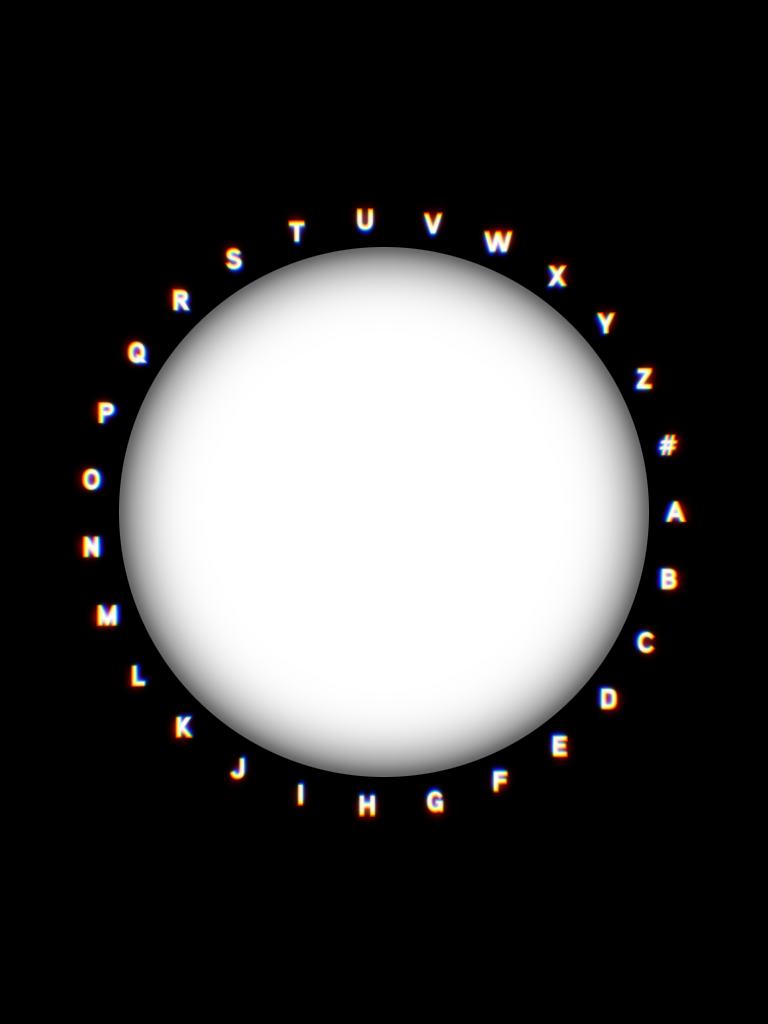
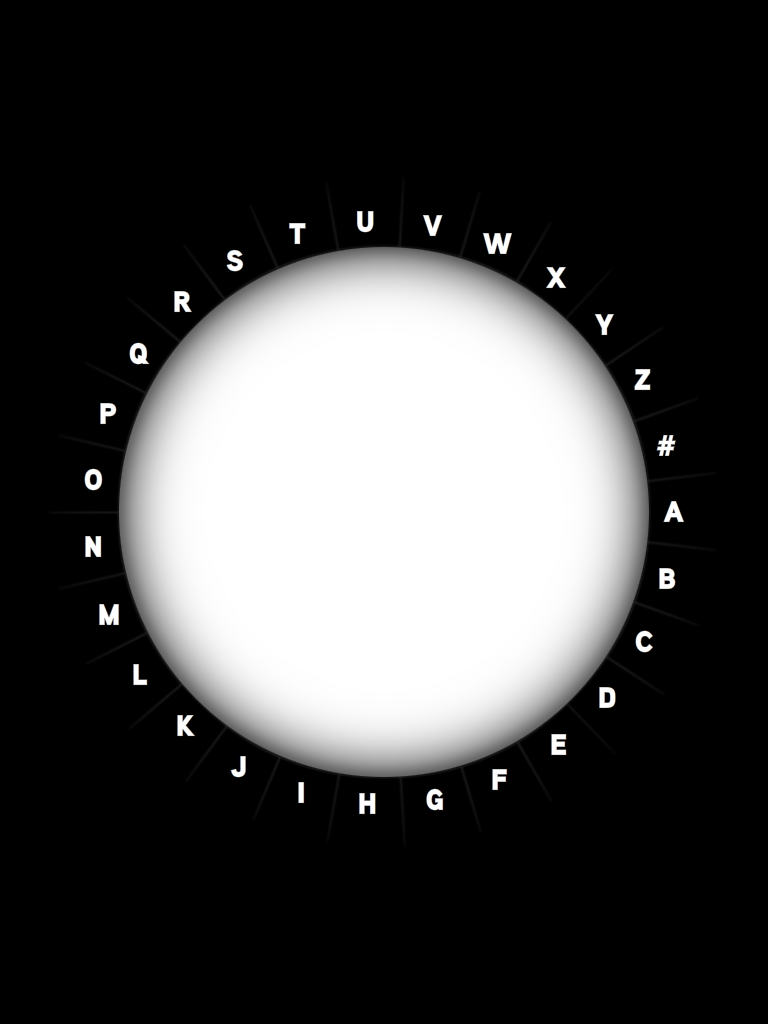
1st go at texture names on planets

diff --git a/src/KeplerApp.cpp b/src/KeplerApp.cpp
@@ -65,7 +65,7 @@ class KeplerApp : public AppCocoaTouch {
 	Vec3f			mEye, mCenter, mUp;
 	Vec3f			mCamVel;
 	Vec3f			mCenterDest, mCenterFrom;
-	float			mCamDist, mCamDistDest, mCamDistFrom, mCamDistDestMulti;
+	float			mCamDist, mCamDistDest, mCamDistFrom;
 	float			mZoomFrom, mZoomDest;
 	Arcball			mArcball;
 	Matrix44f		mMatrix;
@@ -107,7 +107,6 @@ void KeplerApp::setup()
 	mCamDist			= G_INIT_CAM_DIST;
 	mCamDistDest		= mCamDist;
 	mCamDistFrom		= mCamDist;
-	mCamDistDestMulti	= 1.0f;
 	mEye				= Vec3f( 0.0f, 0.0f, mCamDist );
 	mCenter				= Vec3f::zero();
 	mCenterDest			= mCenter;
@@ -316,9 +315,7 @@ void KeplerApp::updateCamera()
 {
 	Node* selectedNode = mState.getSelectedNode();
 	if( selectedNode ){
-		float radiusMulti = 6.0f - ( selectedNode->mGen );
-		
-		mCamDistDest	= ( selectedNode->mRadius * radiusMulti  );
+		mCamDistDest	= selectedNode->mIdealCameraDist;
 		mCenterDest		= mMatrix.transformPointAffine( selectedNode->mPos );
 		mZoomDest		= selectedNode->mGen;
 		
@@ -347,7 +344,7 @@ void KeplerApp::updateCamera()
 	
 	double p	= constrain( getElapsedSeconds()-mTime, 0.0, G_DURATION );
 	mCenter		= easeInOutQuad( p, mCenterFrom, mCenterDest - mCenterFrom, G_DURATION );
-	mCamDist	= easeInOutQuad( p, mCamDistFrom, mCamDistDest*mCamDistDestMulti - mCamDistFrom, G_DURATION );
+	mCamDist	= easeInOutQuad( p, mCamDistFrom, mCamDistDest - mCamDistFrom, G_DURATION );
 	G_ZOOM		= easeInOutQuad( p, mZoomFrom, mZoomDest - mZoomFrom, G_DURATION );
 	
 	Vec3f prevEye		= mEye;
@@ -382,13 +379,13 @@ void KeplerApp::draw()
 	mWorld.drawStarGlows();
 	mStarGlowTex.disable();
 	
-	// STARS
+// STARS
 	mStarTex.enableAndBind();
 	mWorld.drawStars();
 	mStarTex.disable();
 	
 	
-	// CONSTELLATION
+// CONSTELLATION
 	mDottedTex.enableAndBind();
 	mWorld.drawConstellation( mMatrix );
 	mDottedTex.disable();
@@ -430,23 +427,24 @@ void KeplerApp::draw()
 		Color artistDiffuse		= artistNode->mGlowColor;
 		glLightfv( GL_LIGHT1, GL_POSITION, artistLight );
 		glLightfv( GL_LIGHT1, GL_DIFFUSE, artistDiffuse );
-
+		
+// PLANETS
 		gl::enableDepthRead();
 		gl::disableAlphaBlending();
 		mWorld.drawPlanets( mPlanetsTex );
 		
-		
+// RINGS
 		gl::enableAdditiveBlending();
 		mWorld.drawRings( mPlanetsTex[G_RING_TYPE] );
 		glDisable( GL_LIGHTING );
 	}
 	
-	// ORBITS
+// ORBITS
 	gl::enableAdditiveBlending();
 	mWorld.drawOrbitalRings();
 	gl::disableDepthRead();
 
-	// NAMES
+// NAMES
 	gl::disableDepthWrite();
 	glEnable( GL_TEXTURE_2D );
 	gl::setMatricesWindow( getWindowSize() );

diff --git a/src/Node.cpp b/src/Node.cpp
@@ -62,7 +62,6 @@ void Node::initWithParent()
 	mPos				= mParentNode->mPos;
 	mPosPrev			= mParentNode->mPos;
 	mVel				= mParentNode->mVel;
-	mOrbitRadiusDest	= Rand::randFloat( mParentNode->mRadius * 0.5f, mParentNode->mRadius * 2.0f );
 	mOrbitPeriod		= Rand::randFloat( 25.0f, 150.0f );
 }
 
@@ -72,7 +71,16 @@ void Node::createNameTexture()
 	layout.setFont( mFont );
 	layout.setColor( Color( 1.0f, 1.0f, 1.0f ) );
 	layout.addLine( mName );
-	mNameTex = gl::Texture( layout.render( true, false ) );
+	Surface8u nameSurface	= Surface8u( layout.render( true, false ) );
+	mNameTex				= gl::Texture( nameSurface );
+
+	if( mGen == G_TRACK_LEVEL ){
+		Surface8u planetSurface = Surface( 512, 256, true, SurfaceChannelOrder::RGBA );
+		Vec2i offset = Vec2i( 0.0f, 128 - mNameTex.getHeight() * 0.5f );
+		planetSurface.copyFrom( nameSurface, nameSurface.getBounds(), offset );
+	
+		mPlanetTex = gl::Texture( planetSurface );
+	}
 }
 
 void Node::update( const Matrix44f &mat, const Vec3f &bbRight, const Vec3f &bbUp )
@@ -146,8 +154,11 @@ void Node::drawOrthoName( const CameraPersp &cam )
 			gl::color( ColorA( mColor, mZoomPer ) );
 		}
 		
+		if( mGen == G_TRACK_LEVEL ){
+			gl::color( ColorA( 1.0f, 1.0f, 1.0f, 1.0f - mZoomPer ) );
+		}
 		
-		Vec2f offset = Vec2f( mRadius * 5.25f + mSphereScreenRadius * 0.35f, -mNameTex.getHeight() * 0.5f );
+		Vec2f offset = Vec2f( mRadius * 5.25f + mSphereScreenRadius * 0.2f, -mNameTex.getHeight() * 0.5f );
 		Vec2f pos = cam.worldToScreen( mTransPos, app::getWindowWidth(), app::getWindowHeight() ) + offset;
 
 		gl::draw( mNameTex, pos );

diff --git a/src/NodeTrack.cpp b/src/NodeTrack.cpp
@@ -32,6 +32,8 @@ NodeTrack::NodeTrack( Node *parent, int index, const Font &font, std::string nam
 	float val		= Rand::randFloat( 0.7f, 1.0f);
 	mColor			= Color( CM_HSV, hue, sat, val );
 	mAtmosphereColor = Color( CM_HSV, Rand::randFloat(), 0.45f, 1.0f );
+	mOrbitRadiusDest = Rand::randFloat( mParentNode->mRadius * 0.5f, mParentNode->mRadius * 2.0f );
+	mIdealCameraDist = mSphere.getRadius() * 0.5f;
 }
 
 void NodeTrack::setData( TrackRef track, PlaylistRef album )
@@ -139,6 +141,11 @@ void NodeTrack::drawPlanet( std::vector< gl::Texture*> texs )
 		gl::color( mAtmosphereColor );
 		gl::rotate( Vec3f( 0.0f, app::getElapsedSeconds() * -25.0f, mAxisAngle ) );
 		gl::drawSphere( Vec3f::zero(), mRadius * 0.385f, mSphereRes );
+		
+		glDisable( GL_LIGHTING );
+		mPlanetTex.enableAndBind();
+		gl::drawSphere( Vec3f::zero(), mRadius * 0.395f, mSphereRes );
+		glEnable( GL_LIGHTING );
 		gl::disableAlphaBlending();
 	}
 	

diff --git a/src/NodeArtist.cpp b/src/NodeArtist.cpp
@@ -27,6 +27,7 @@ NodeArtist::NodeArtist( Node *parent, int index, const Font &font, std::string n
 	float sat		= 1.0f - sin( hue * 2.0f * M_PI );
 	mColor			= Color( CM_HSV, hue, sat * 0.1f, 1.0f );
 	mGlowColor		= Color( CM_HSV, hue, sat + 0.2f, 1.0f );
+	mIdealCameraDist = mRadius * 1.5f;
 }
 
 void NodeArtist::update( const Matrix44f &mat, const Vec3f &bbRight, const Vec3f &bbUp )
@@ -96,7 +97,7 @@ void NodeArtist::drawPlanet( std::vector< gl::Texture*> texs )
 		gl::color( mColor * 2.0f );
 		gl::drawSolidCircle( Vec2f::zero(), mRadius * 0.215f, 100 );
 		
-		gl::enableAlphaBlending();
+		gl::enableAdditiveBlending();
 		gl::color( ColorA( 1.0f, 1.0f, 1.0f, 0.5f ) );
 		gl::drawSolidCircle( Vec2f::zero(), mRadius * 0.220f, 100 );
 		gl::color( ColorA( 1.0f, 1.0f, 1.0f, 0.25f ) );

diff --git a/src/NodeAlbum.cpp b/src/NodeAlbum.cpp
@@ -28,6 +28,8 @@ NodeAlbum::NodeAlbum( Node *parent, int index, const Font &font, std::string nam
 	mColor			= Color( CM_HSV, hue, sat * 0.5f, 1.0f );
 	mGlowColor		= Color( CM_HSV, hue + 0.15f, sat, 1.0f );
 	
+	mOrbitRadiusDest = Rand::randFloat( mParentNode->mRadius * 0.5f, mParentNode->mRadius * 1.5f );
+	mIdealCameraDist = mRadius * 2.25f;	
 
 }
 
@@ -109,7 +111,7 @@ void NodeAlbum::drawPlanet( std::vector< gl::Texture*> texs )
 		glDisable( GL_LIGHTING );
 		gl::pushModelView();
 		gl::translate( mTransPos );
-		gl::color( mColor * 2.0f );
+		gl::color( ColorA( 1.0f, 1.0f, 1.0f, 1.0f ) );
 		gl::drawSolidCircle( Vec2f::zero(), mRadius * 0.215f, 100 );
 		
 		gl::enableAlphaBlending();

diff --git a/include/Node.h b/include/Node.h
@@ -78,11 +78,14 @@ class Node {
 	float				mSphereScreenRadius;// mSphere radius in screenspace
 	float				mZoomPer;			// 0.0 to 1.0 to 0.0 based on zoom level vs mgen
 	int					mPlanetTexIndex;	// Which of the planet textures are used
+	float				mIdealCameraDist;	// Ideal distance from node to camera
 	
 	// NAME
 	std::string			mName;				// Name of the node
 	ci::Font			mFont;
+
 	ci::gl::Texture		mNameTex;			// Texture of the name
+	ci::gl::Texture		mPlanetTex;			// TODO: this is a test.
 	
 	
 	ci::Sphere			mSphere;			// Sphere object used only for hit-testing
